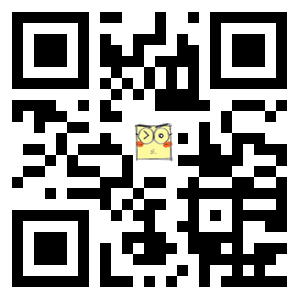
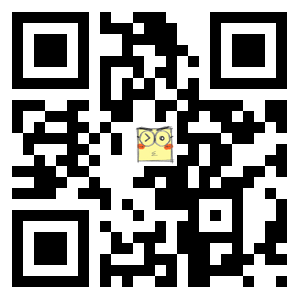
added support for https

Changed region(s): [[0.03, 0.03, 0.96, 0.96], [0.33, 0.69, 0.81, 0.96], [0.63, 0.03, 0.66, 0.09]]

diff --git a/index.html b/index.html
@@ -12,7 +12,7 @@
         <link rel="apple-touch-icon" href="apple-touch-icon.png">
         <link rel="stylesheet" href="css/bootstrap.min.css">
         <link rel="stylesheet" href="css/font-awesome.min.css">
-        <link href='http://fonts.googleapis.com/css?family=Open+Sans' rel='stylesheet' type='text/css'>
+        <link href='//fonts.googleapis.com/css?family=Open+Sans' rel='stylesheet' type='text/css'>
         <link rel="stylesheet" href="css/main.css">
         <script src="js/vendor/modernizr-2.8.3.min.js"></script>
     </head>
@@ -25,7 +25,7 @@
             <div class="container-fluid">
                 <div class="navbar-header">
                     <a class="navbar-brand" href="#top">
-                        <img src="http://graph.facebook.com/sondh/picture" />
+                        <img src="//graph.facebook.com/sondh/picture" />
                     </a>
                 </div>
 
@@ -43,7 +43,7 @@
         <div class="container-fluid">
             <div class="row header-row">
                 <div class="col-md-12 profile card">
-                    <img src="http://graph.facebook.com/sondh/picture?type=large" class="avatar" />
+                    <img src="//graph.facebook.com/sondh/picture?type=large" class="avatar" />
 
                     <h1 class="email">
                         <span>d</span><span>a</span><span>o</span><span class="faint">@</span><span>h</span><span>o</span><span>a</span><span>n</span><span>g</span><span class="letter-s">s</span><span>o</span><span>n</span><span class="faint">.</span><span class="faint">v</span><span class="faint">n</span>
@@ -127,7 +127,7 @@
                     </div>
 
                     <div class="qr">
-                        <a href="http://hoangson.vn"><img src="images/qr.png" width="150" height="150" /></a>
+                        <a href="//hoangson.vn"><img src="images/qr.png" width="150" height="150" /></a>
                     </div>
 
                 </div>
